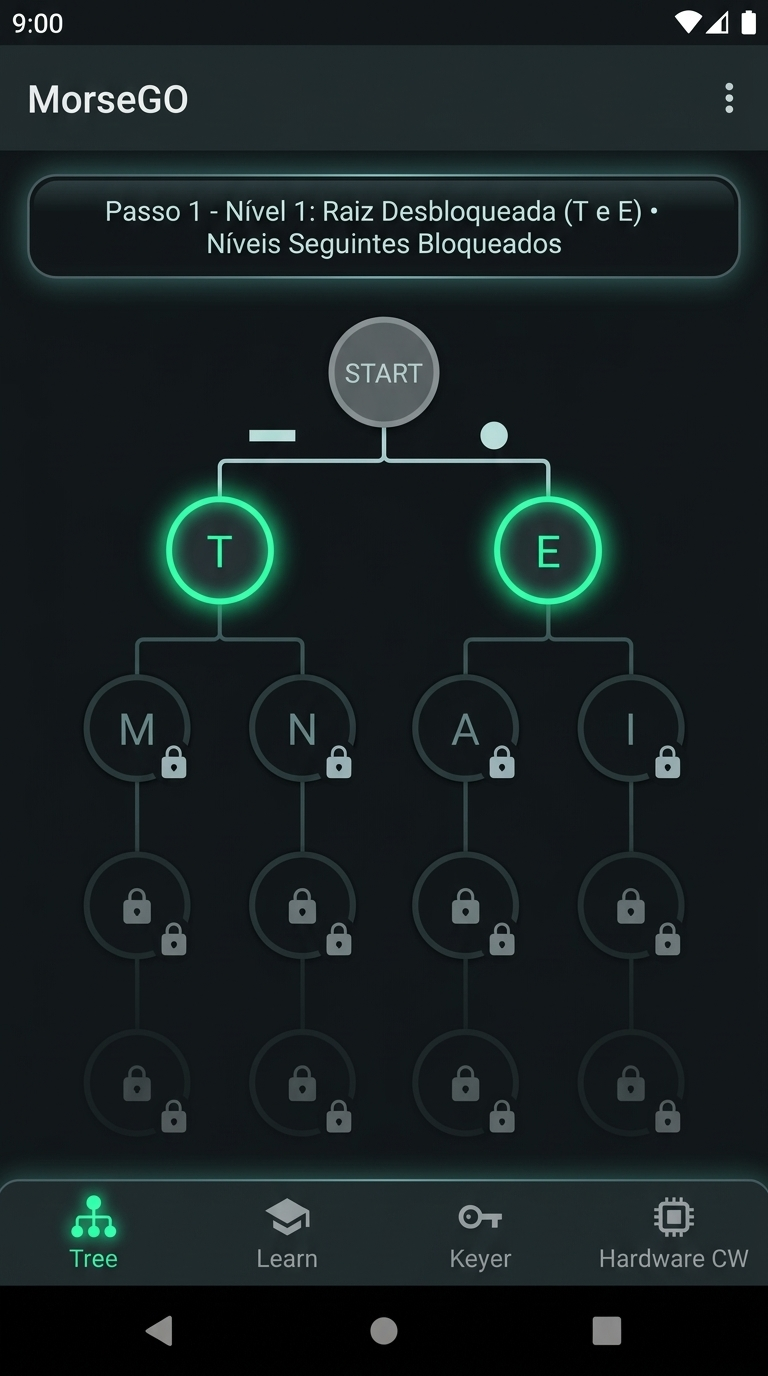
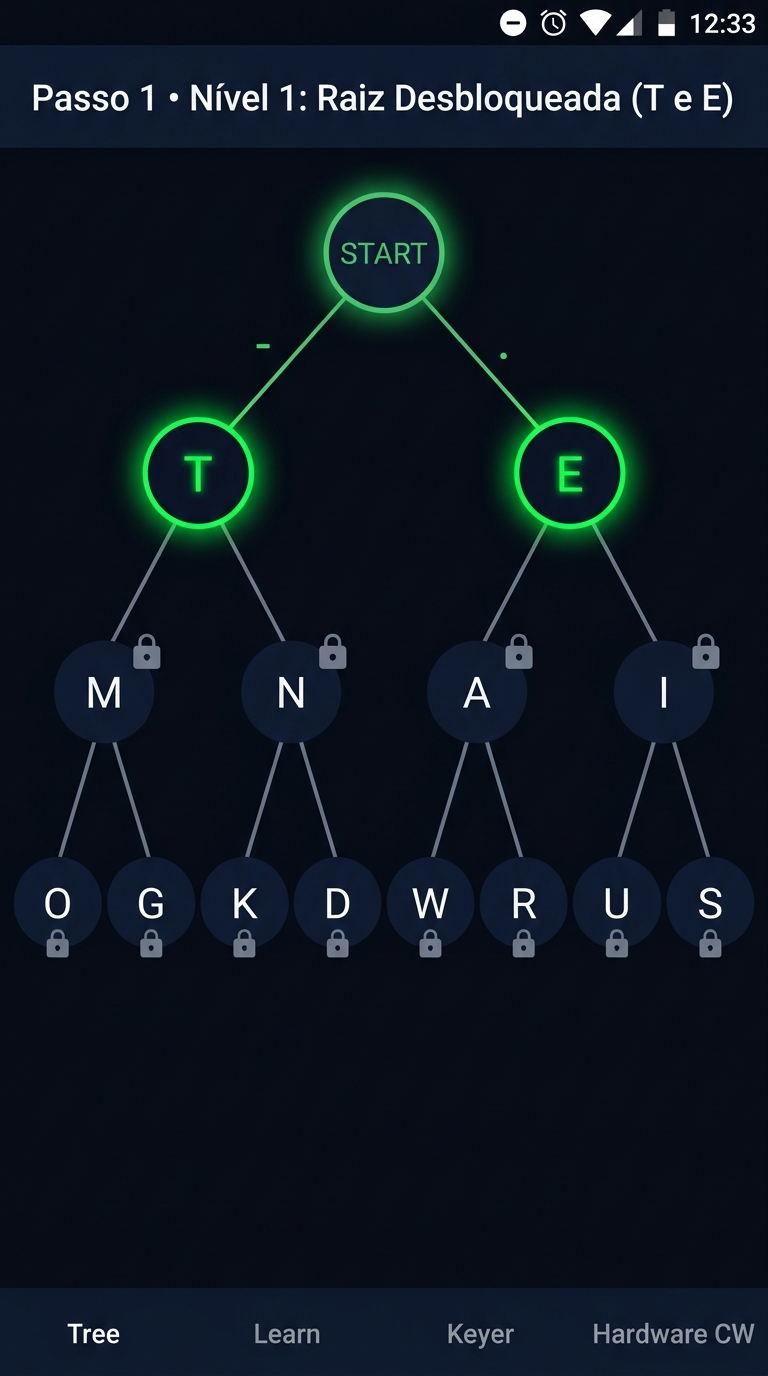
Unify tree layout across levels 1 to 7, illuminate K in level 11, and correct node 8/9/0 hierarchy

diff --git a/reports/unit-tests/index.html b/reports/unit-tests/index.html
@@ -1522,9 +1522,9 @@
             const nodeU = { id: "U", morse: "..-", x: nodeI.x - 68, y: 275, radius: 16, parent: nodeI, branch: "—", unlocked: unlockedList.includes("U") };
             const nodeS = { id: "S", morse: "...", x: nodeI.x + 68, y: 275, radius: 16, parent: nodeI, branch: "•", unlocked: unlockedList.includes("S") };
 
-            // Depth 4: Individual Letters (X, B, C, Y, Z, Q, J, P, L, F, V, H, 0, 9) - NO COMBINED LABELS
-            const node0 = { id: "0", morse: "-----", x: nodeO.x - 34, y: 355, radius: 14, parent: nodeO, branch: "—", unlocked: unlockedList.includes("0") };
-            const node9 = { id: "9", morse: "----.", x: nodeO.x + 34, y: 355, radius: 14, parent: nodeO, branch: "•", unlocked: unlockedList.includes("9") };
+            // Depth 4: Individual Letters & Digits - Under O: 9 (Dah) and 8 (Dit)
+            const node9 = { id: "9", morse: "----.", x: nodeO.x - 34, y: 355, radius: 14, parent: nodeO, branch: "—", unlocked: unlockedList.includes("9") };
+            const node8 = { id: "8", morse: "---..", x: nodeO.x + 34, y: 355, radius: 14, parent: nodeO, branch: "•", unlocked: unlockedList.includes("8") };
             const nodeQ = { id: "Q", morse: "--.-", x: nodeG.x - 34, y: 355, radius: 14, parent: nodeG, branch: "—", unlocked: unlockedList.includes("Q") };
             const nodeZ = { id: "Z", morse: "--..", x: nodeG.x + 34, y: 355, radius: 14, parent: nodeG, branch: "•", unlocked: unlockedList.includes("Z") };
             const nodeY = { id: "Y", morse: "-.--", x: nodeK.x - 34, y: 355, radius: 14, parent: nodeK, branch: "—", unlocked: unlockedList.includes("Y") };
@@ -1539,8 +1539,8 @@
             const nodeV = { id: "V", morse: "...-", x: nodeS.x - 34, y: 355, radius: 14, parent: nodeS, branch: "—", unlocked: unlockedList.includes("V") };
             const nodeH = { id: "H", morse: "....", x: nodeS.x + 34, y: 355, radius: 14, parent: nodeS, branch: "•", unlocked: unlockedList.includes("H") };
 
-            // Depth 5: Numbers (8, 7, 6, 1, 2, 3, 4, 5) safely spaced in bottom row
-            const node8 = { id: "8", morse: "---..", x: node9.x, y: 440, radius: 13, parent: node9, branch: "—", unlocked: unlockedList.includes("8") };
+            // Depth 5: Numbers (0, 7, 6, 1, 2, 3, 4, 5) safely spaced in bottom row
+            const node0 = { id: "0", morse: "-----", x: node9.x, y: 440, radius: 13, parent: node9, branch: "—", unlocked: unlockedList.includes("0") };
             const node7 = { id: "7", morse: "--...", x: nodeZ.x, y: 440, radius: 13, parent: nodeZ, branch: "—", unlocked: unlockedList.includes("7") };
             const node6 = { id: "6", morse: "-....", x: nodeB.x, y: 440, radius: 13, parent: nodeB, branch: "—", unlocked: unlockedList.includes("6") };
             const node1 = { id: "1", morse: ".----", x: nodeJ.x, y: 440, radius: 13, parent: nodeJ, branch: "—", unlocked: unlockedList.includes("1") };

diff --git a/app/src/main/java/com/morsego/app/tree/MorseBinaryTree.java b/app/src/main/java/com/morsego/app/tree/MorseBinaryTree.java
@@ -77,9 +77,9 @@ public class MorseBinaryTree {
         addNode(nodeJ, false, "1", ".----");
         addNode(nodeB, true, "6", "-....");
         addNode(nodeZ, true, "7", "--...");
-        addNode(nodeG, false, "8", "---.."); // under ---..
-        addNode(nodeO, true, "9", "----.");
-        addNode(nodeO, false, "0", "-----");
+        addNode(nodeO, true, "8", "---..");
+        MorseTreeNode node9 = addNode(nodeO, false, "9", "----.");
+        addNode(node9, false, "0", "-----");
 
         // Additional symbols & prosigns in lookup map
         registerChar(".", ".-.-.-");
